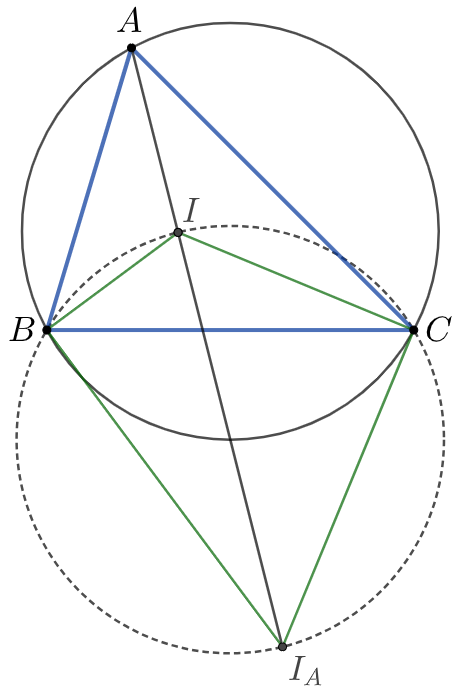
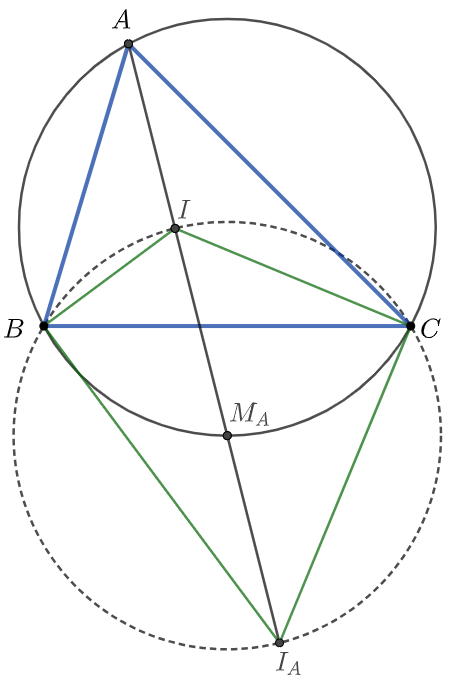
add post

diff --git a/_posts/Self-Contained Incenter-Related Configurations.md b/_posts/Self-Contained Incenter-Related Configurations.md
@@ -1,0 +1,110 @@
+# Self-Contained Incenter-Related Configurations
+
+#### Let's start off from the **Incenter-Excenter Lemma**:
+
+$$
+\begin{multline}
+\shoveleft \boxed{\pmb{\text{Incenter-Excenter Lemma (Trillium theorem)}}}\\
+\shoveleft \text{Let }ABC \text{ be a triangle with incenter }I, A\text{-excenter }I_A, \text{ and denote by }M_A \text{ the midpoint of arc }BC \text{ not containing }A,\\
+\shoveleft\text{then }M_A \text{ is the circumcenter of }\triangle{BIC}, \text{ or the center of } \odot{IBI_AC}
+\end{multline}
+$$
+
+![image-20240703203831106](H:\workspace\mwo\assets\images\2024\image-20240702000925430.png)
+
+**Prove:**
+$$
+\begin{multline}
+\shoveleft \text{Since }AIM_A \text{ is the bisector of }\angle{BAC}, AIM_A \text{ are collinear}.\\
+\shoveleft \angle{M_ABI}=\angle{M_ABC}+\angle{CBI}=\angle{M_ABC}+\angle{CBI}=\dfrac{\angle{BAC}}{2}+\dfrac{\angle{ABC}}{2}\\
+\shoveleft \angle{BIM_A}=\angle{BAI}+\angle{ABI}=\dfrac{\angle{BAC}}{2}+\dfrac{\angle{ABC}}{2}=\angle{M_ABI}\implies BM_A=IM_A\\
+\shoveleft \text{Similarly}, CM_A=IM_A \implies M_A \text{ is the circumcenter of }\triangle{BIC}\\
+\shoveleft \text{Then we need prove }I_A \text{ is also on the circumcircle of }\triangle{BIC}, \text{ or }BICI_A \text{ is cyclic}\\
+\shoveleft I, I_A \text{ are incenter and excenter respectively }\\
+\shoveleft \implies BI, BI_A \text{ are internal and external angles respectively }\\
+\shoveleft \implies\angle{IBI_A}=\angle{IBC}+\angle{CBI_A}=90^{\circ}.\text{Similarly, }\angle{ICI_A=90^{\circ}}\\
+\shoveleft \implies BICI_A \text{ is cyclic} \implies M_A \text{ is the center of }\odot{BICI_A}\blacksquare
+\end{multline}
+$$
+
+#### Let $M_{BC}$ be midpoint of arc $\overset{\huge\frown}{BAC}$, easy to see that:
+
+![image-20240702002022547](H:\workspace\mwo\assets\images\2024\image-20240702001939003.png)
+
+#### (1) $M_A$ is the center of $\odot{BIC}$
+
+#### (2) $M_{BC}$ is the antipode of $M_A$ in $\odot{ABC}$ $\implies BC \perp M_AM_{BC}$
+
+#### (3) $M_AM_BC$ is the diameter of $\odot{ABC} \implies \angle{M_{BC}BM_A}=\angle{M_{BC}CM_A}=90^{\circ} \implies BM_{BC}, CM_{BC}$ are tangent to $\odot{BIC}$ at $B, C$
+
+#### Then we introduce Harmonic Quadrilateral:
+
+![image-20240702003447325](H:\workspace\mwo\assets\images\2024\image-20240702002845027.png)
+
+#### Let $IM_{BC}\cap \odot{ABC}=T, IM_{BC}\cap \odot{BIC}=J$ 
+
+#### (1) It is a well-known Lemma in the Mixtilinear Configuration that:  $T$ is the $A$-Mixtilinear Point.
+
+####(2) The Antipode fact $\implies \angle{M_{BC}TM_A}=90^{\circ} \implies T$ is the midpoint of $IJ$
+
+#### Let $K$ be the intersection of tangents at $I, J$ to $\odot{BIC}$
+
+#### (3) La-Hire's Theorem $\implies I, J $ are the polar of $K$ with reference to $\odot{BIC}$
+
+#### $\implies K $ lies on the polar of $M_{BC}$ with reference to $\odot{BIC}$, i.e., $K \in BC$
+
+#### (4) $K, T, M_A$ are collinear
+
+
+
+#### We can use harmonic quadrilateral instead of La-Hire's Theorem here:
+
+![image-20240702004724634](H:\workspace\mwo\assets\images\2024\image-20240702004724634.png)
+
+#### Let: 
+
+#### (a) $D,E,F$ be the $A,B,C-$Intouch points
+
+####(b) $\Psi_{\odot{BIC}}$ be the inversion around $\odot{BIC}$
+
+####(c) $\odot{AIFE} \cap \odot{ABC}=L$, $A'$ be the $A$-antipode of $A$ in  $\odot{ABC}$
+
+####(d) $AI \cap BC=X, KI \cap AB=Y, KI \cap AC=Z$
+
+####(e) P $\in EF$  such that $DP \perp EF$
+
+####(f) $S= DP \cap \odot{DEF}$
+
+#### Then we have:
+
+####(1) $L $ lies on  $IA'$
+
+#### (2) Radical Axes Theorem on $\odot{ALFIE}, \odot{BIC}, \odot{ABC} \implies K \in LA$
+
+![image-20240702221519992](H:\workspace\mwo\assets\images\2024\image-20240702005504678.png)
+
+####(3) Radical axis on $\odot{IM_A}, \odot{BIC}, \odot{ABC} \implies$ $X,Y$ are the tangency points of the $A$-Mixtilinear incircle with $AB, AC$
+
+####(4) Quadrilateral similarity: $AFIE \sim M_{BC}M_AC$ 
+
+####(5) $\Psi_{\odot{BIC}}(\odot{ABC})=BC$
+
+####(6) Shooting Lemma $\implies \Psi_{\odot{BIC}}(AI \cap BC)=\Psi_{\odot{BIC}}(X)=A$
+
+####(7) $\triangle{IDX} \overset{\Psi_{\odot{BIC}}}{\mapsto}\triangle{ILA} \implies ALDX$ cyclic, $LDM_A$ collinear, which can also be proved using angle chasing:
+
+$$
+\begin{multline}
+\shoveleft \angle{SFE}=\angle{SDE}=\angle{PDE}=90^{\circ}-\angle{FED}=\dfrac{\angle{ABC}}{2}=\angle{IBC}\\
+\shoveleft \text{Similarly, }\angle{SEF}=\angle{ICB} \implies \triangle{SFE}\sim \triangle{IBC}\\
+\end{multline}
+$$
+
+#### (8) Let $f$ be the spiral similarity at $L$ that sends ${F}\mapsto{B}$ and ${E}\mapsto{C} \implies f(S)=I$ (i.e., ${S} \mapsto{I} $), and since $P,D$ are the orthogonal projections of $S, I$ onto $FE, BC$ respectively  $\implies f(P)=D$
+
+#### (9) $I$ is the midpoint of arc $\overset{\huge\frown}{FE}$ in $\odot{ALFIE} \implies f(I)=M_A$ (i.e., ${I}\mapsto{M_A}$)
+
+####(10) $PD \parallel IM_A \implies $ the spiral center $L$ carrying ${PD}\mapsto{IM_A}$ is also on $DM_A \implies LDM_A$ collinear
+
+#### (11) $f(A)=M_{BC}$
+

diff --git a/_posts/2024-07-02-wo.md b/_posts/2024-07-02-wo.md
@@ -31,3 +31,4 @@ $$
 
 ---
 
+### 07/09/2024
